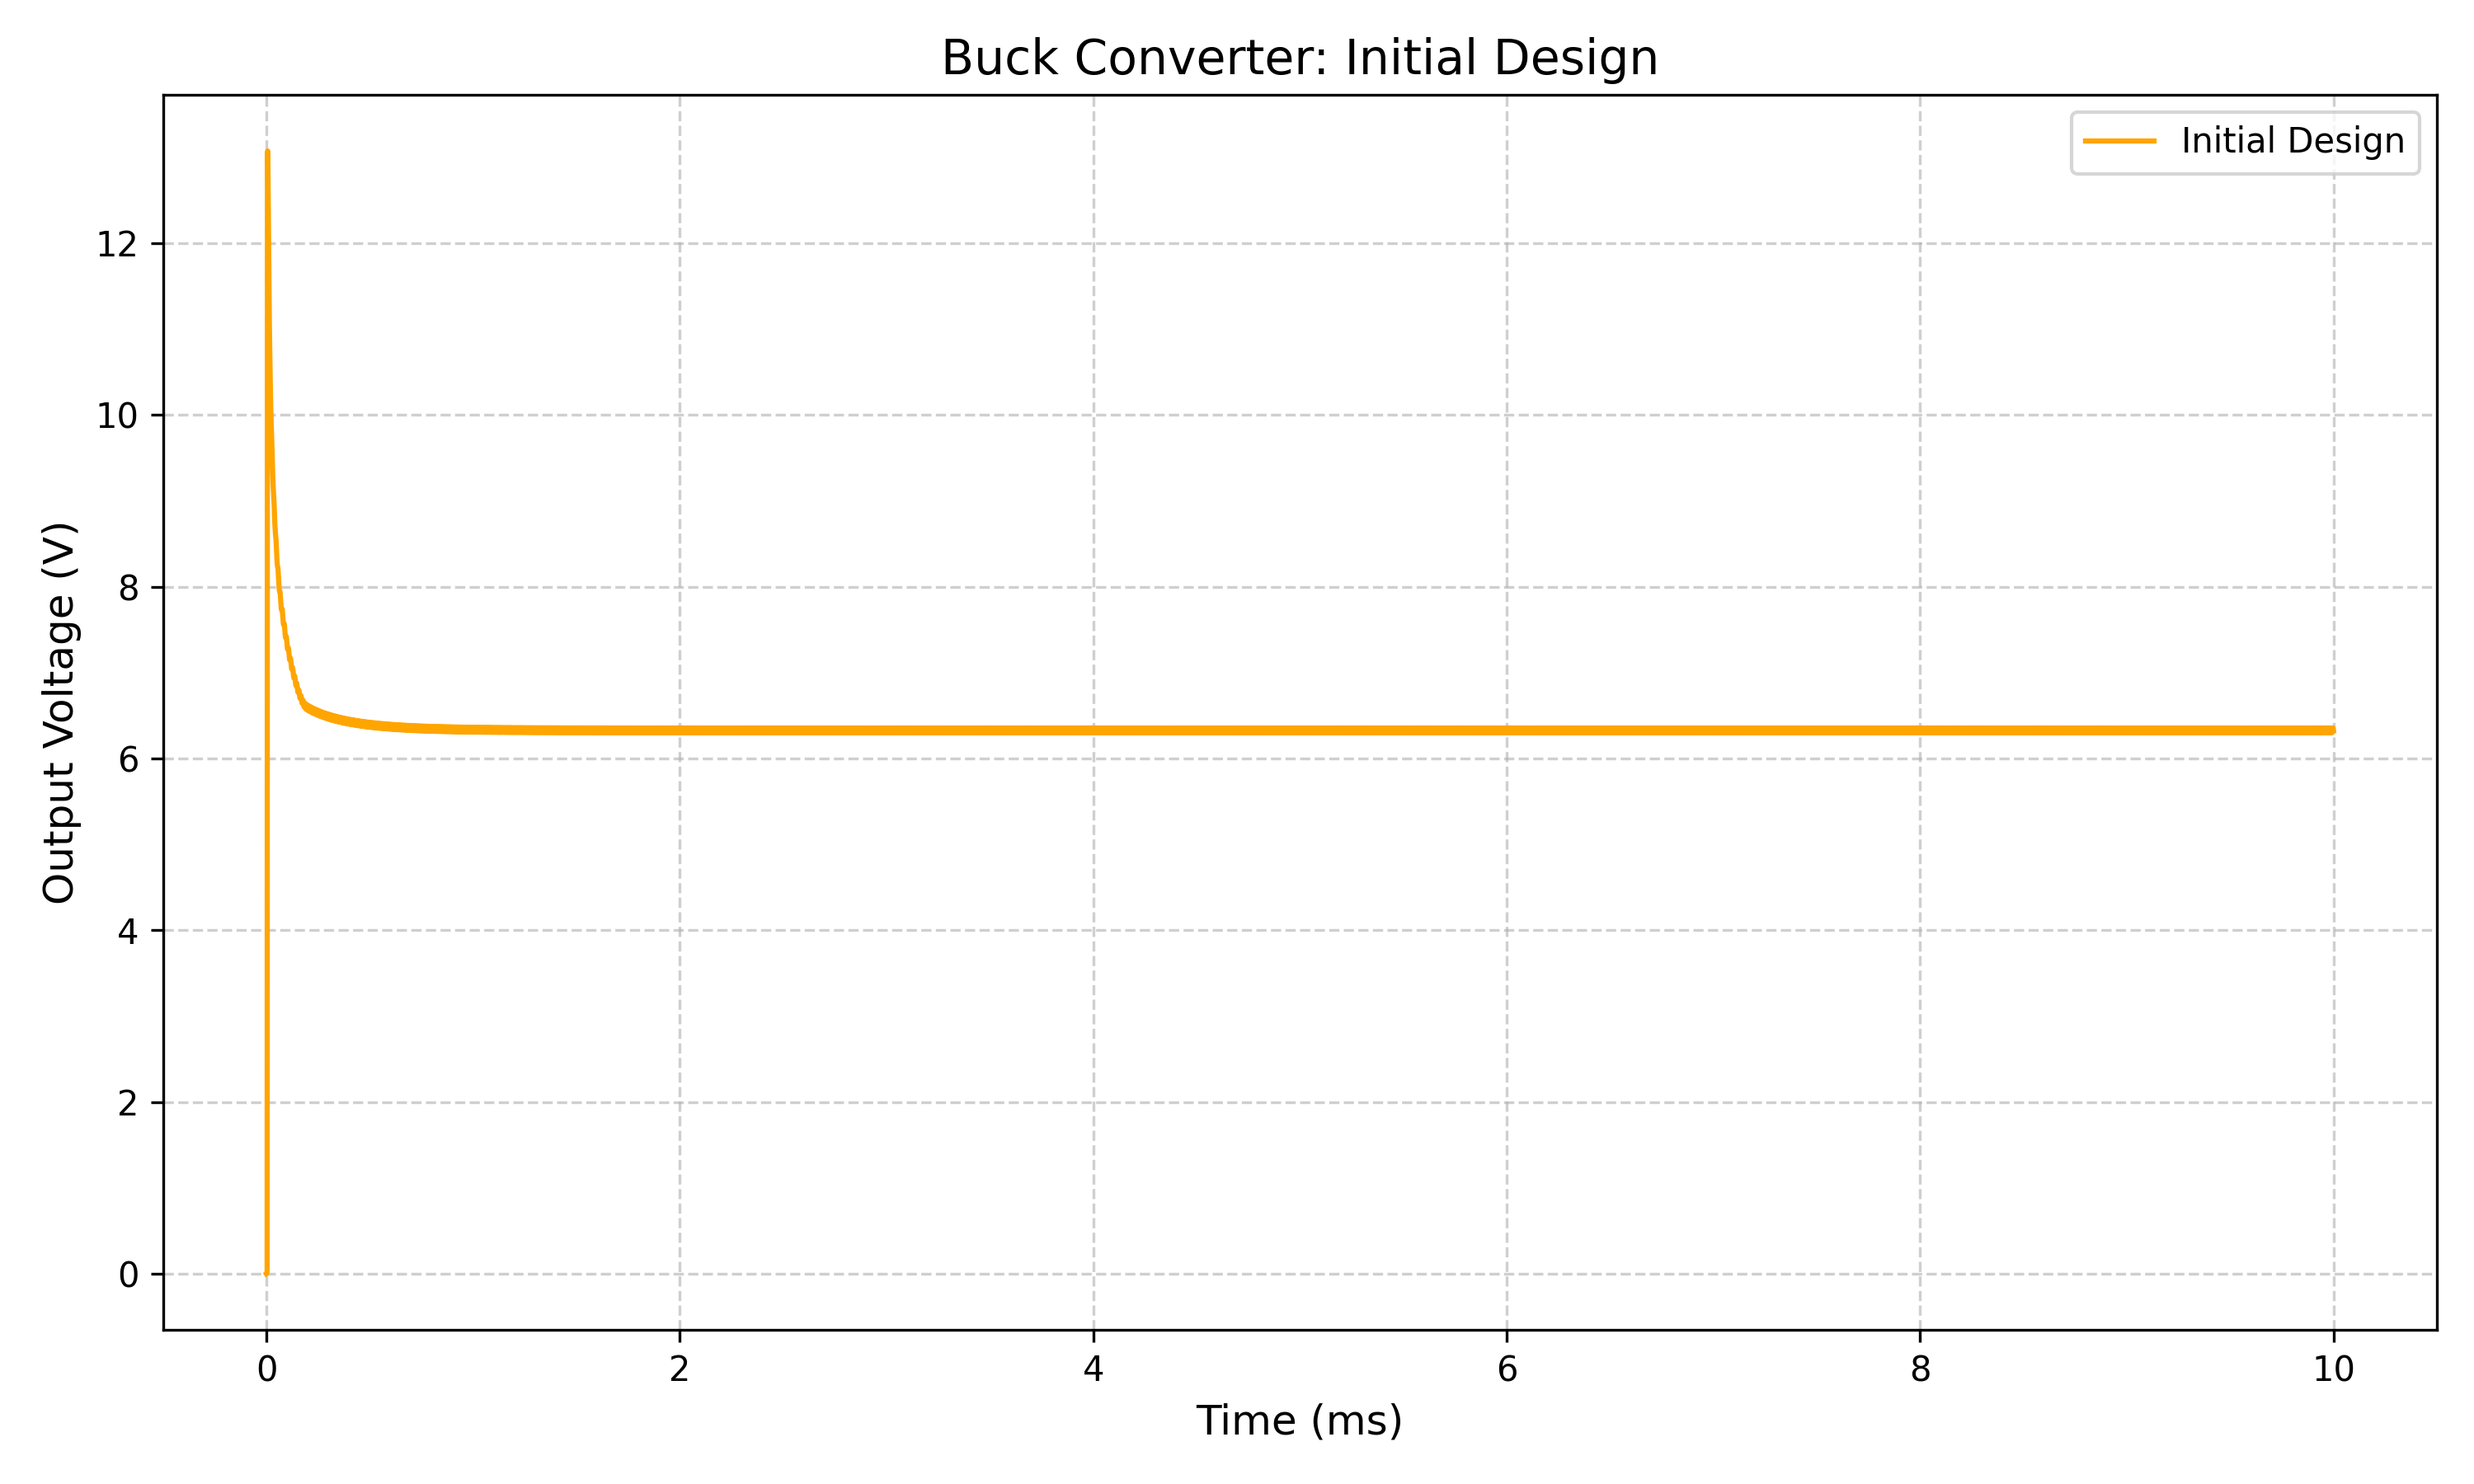
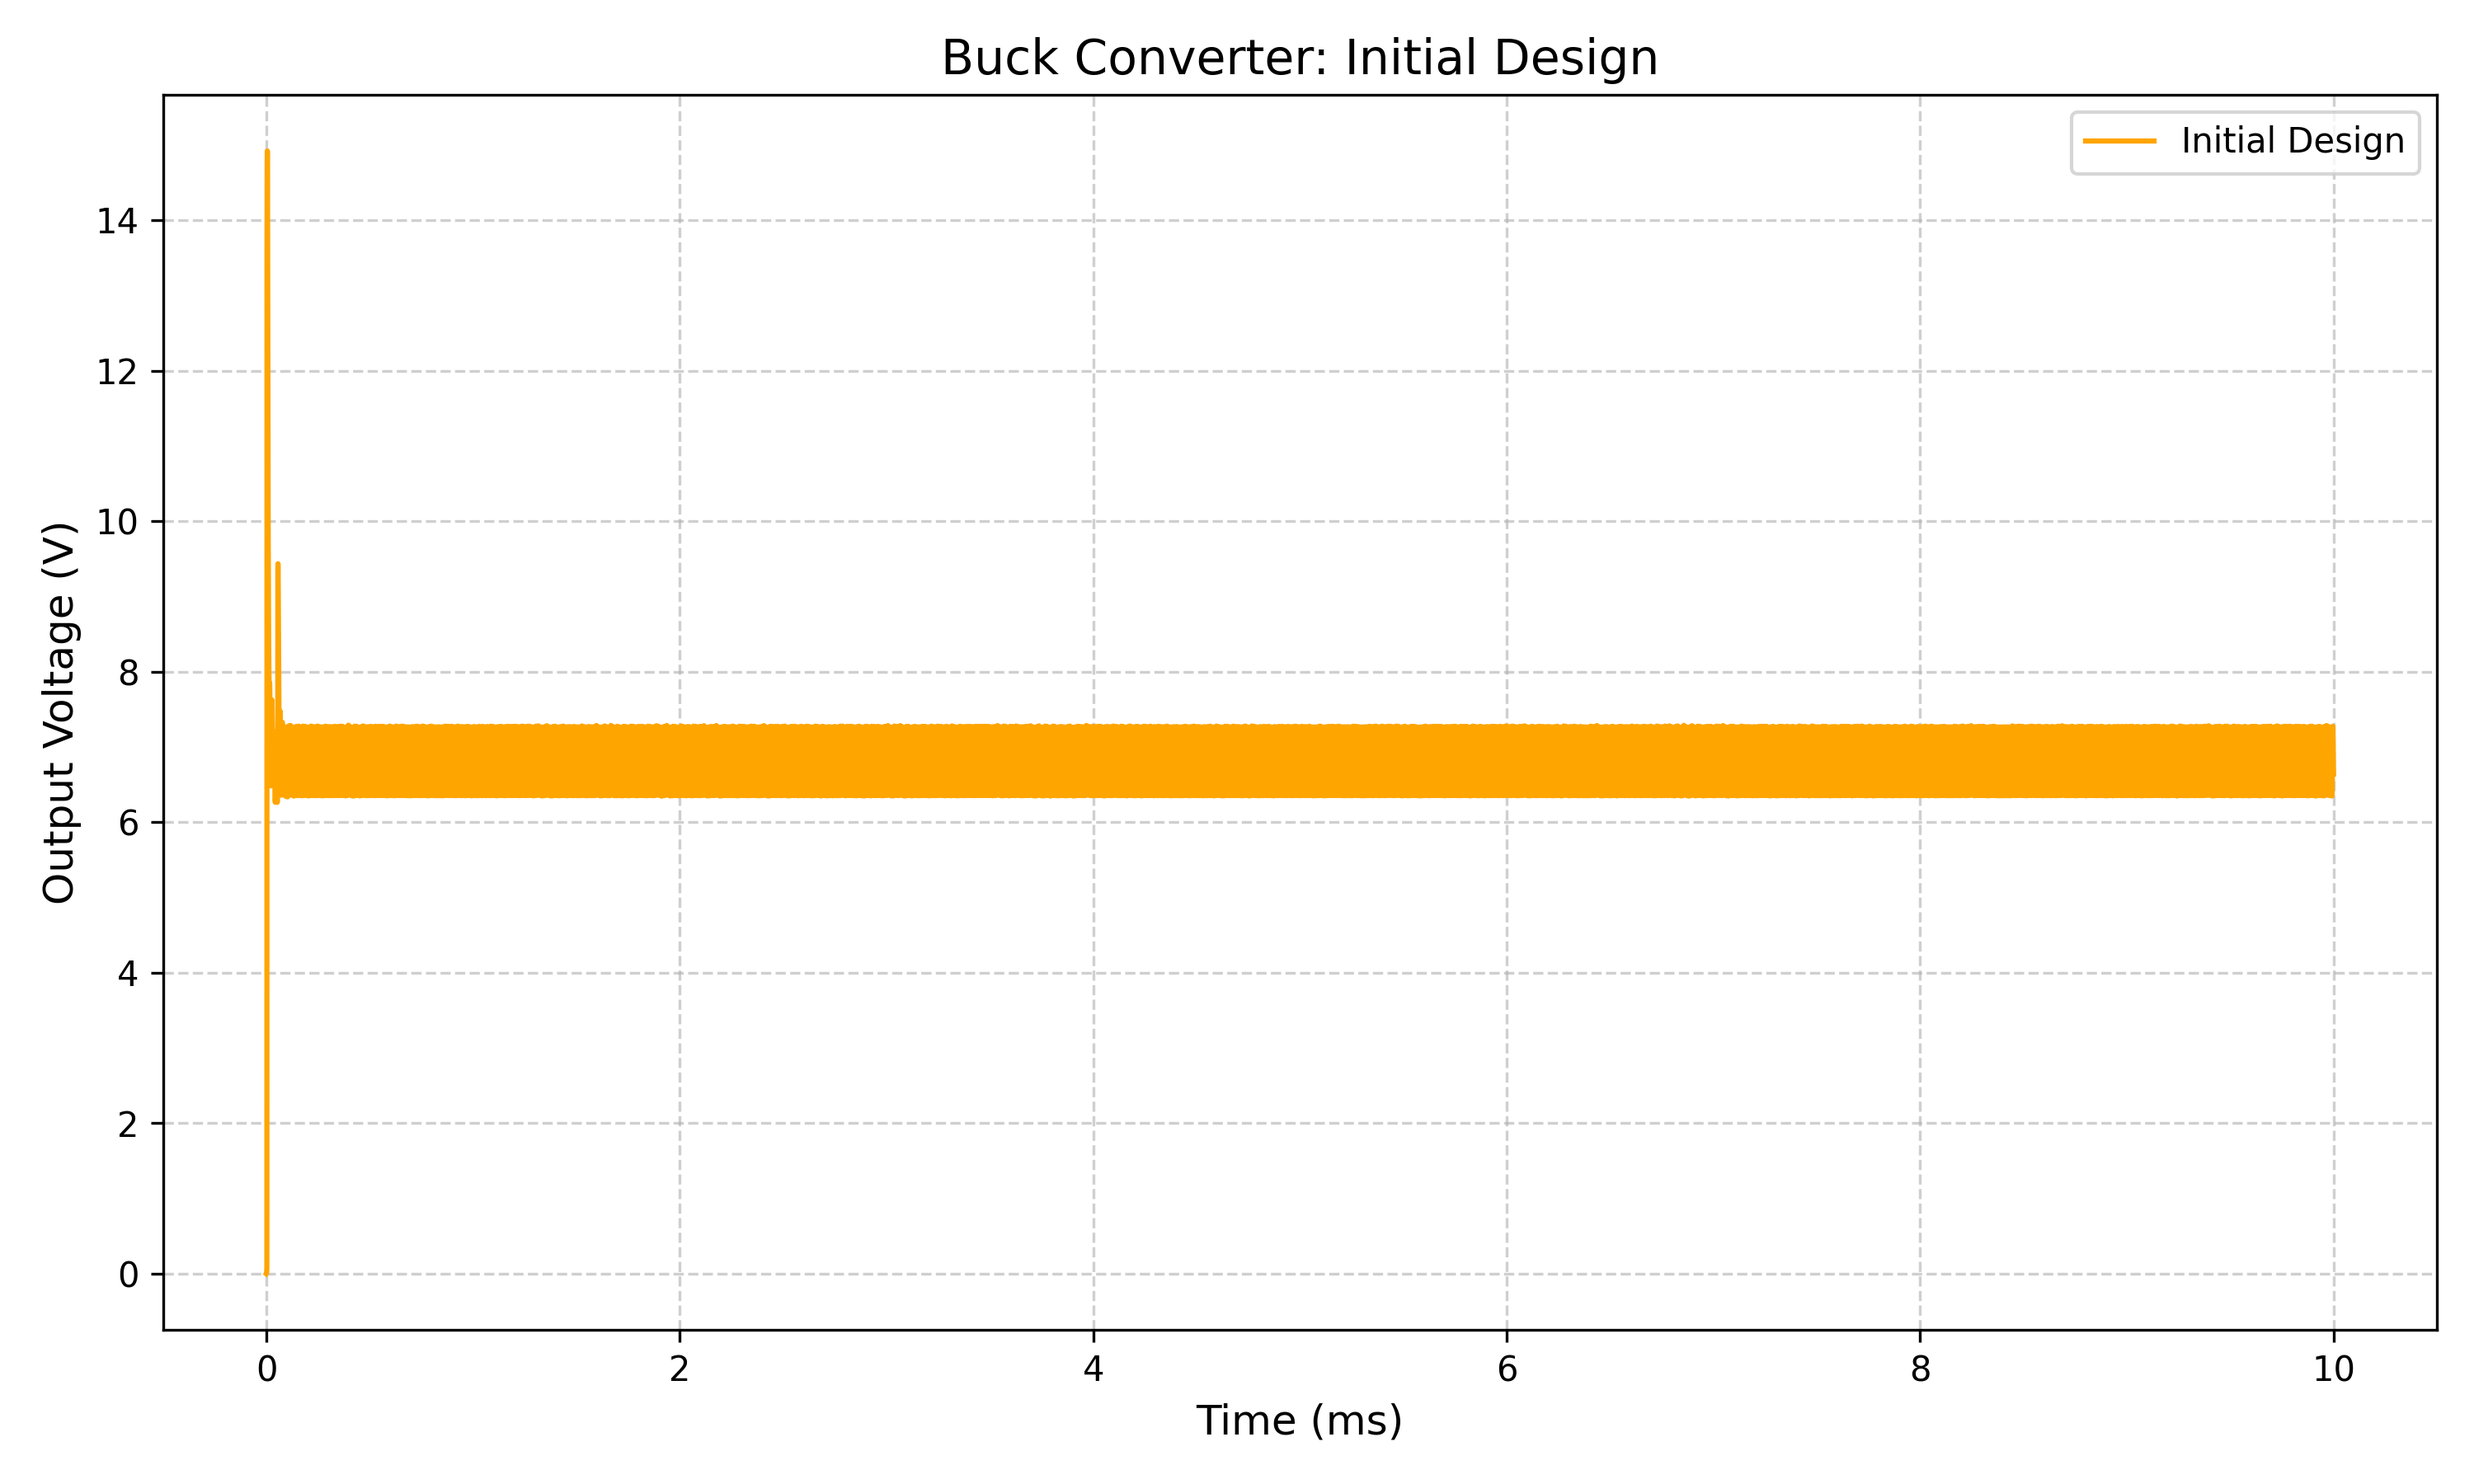
successful PowerAgent also with strong non linearities

diff --git a/PowerAgent/experiment_results/agent_memory.md b/PowerAgent/experiment_results/agent_memory.md
@@ -7,6 +7,21 @@ Initial circuit state set and netlist saved.
 **Agent Thought (Iter 0):**
 
 
+**Tool Call (analyze_circuit):**
+Current Circuit Configuration (Buck_converter_real_sim.net):
+- Vin: 12
+- Cin: 300u
+- D1: MBR745
+- L1: Flux={L_nom}*{I_sat}*tanh(x/{I_sat})
+- M1: IRF1404
+- Rload: 6
+- Vsw: PULSE(0 10 0 1n 1n 5u 10u)
+- Cout: Cout out 0 Q={C_min}*x + ({C_nom}-{C_min})*{V_coeff}*tanh(x/{V_coeff})
+
+Parameters:
+.param C_nom= 30u C_min= 1u V_coeff= 4 L_nom= 14u I_sat= 2
+
+
 **Agent Thought (Iter 1):**
 
 
@@ -19,101 +34,149 @@ Initial circuit state set and netlist saved.
 
 **Tool Call (calculate_metrics):**
 Simulation Metrics:
-{'v_mean': 6.3283586502075195, 'ripple_pp': 0.05822277069091797, 'ripple_percent': 0.9200295433402061, 'max_voltage': 6.356544494628906, 'min_voltage': 6.298321723937988}
+{'v_mean': 6.771670341491699, 'ripple_pp': 0.9369645118713379, 'ripple_percent': 13.836534321308136, 'max_voltage': 7.284432888031006, 'min_voltage': 6.347468376159668}
 
 **Agent Thought (Iter 3):**
-The initial simulation results for the buck converter are as follows:
-- Mean Output Voltage (V_mean): 6.33V
-- Output Ripple (Peak-to-Peak): 0.058V
-- Output Ripple Percentage: 0.92%
+The initial simulation results show that the current configuration of the buck converter does not meet the desired specifications:
 
-The mean output voltage is significantly higher than the target of 5V, and the ripple is slightly above the desired 0.05V. Let's adjust the duty cycle and possibly the output capacitance to bring the output voltage and ripple within the desired specifications.
+- Mean Output Voltage (V_mean): 6.77V (Target: 5V ± 0.1V)
+- Output Ripple: 0.937V (Target: < 0.05V)
+- Ripple Percentage: 13.84% (Target: < 1%)
 
-### Current Adjustments Needed:
-1. **Duty Cycle (D):** The current V_mean is 6.33V, and we need it to be 5V. The current duty cycle needs to be adjusted to achieve this.
-   - Current Duty Cycle (D_current) is approximately 6.33V / 12V = 0.5275.
-   - Target Duty Cycle (D_target) is 5V / 12V = 0.417.
-   - Adjust the duty cycle using the formula: \( D_{\text{new}} = D_{\text{old}} \times \left(\frac{V_{\text{target}}}{V_{\text{measured}}}\right) \).
+### Plan for Optimization:
 
-2. **Output Ripple:** The ripple is slightly above the target. We can increase Cout to reduce the ripple.
+1. **Adjust the Duty Cycle (D):**
+   - Current V_mean is 6.77V, but we need 5V.
+   - Current Duty Cycle (D) is 0.5 (from Vsw: PULSE(0 10 0 1n 1n 5u 10u)).
+   - Calculate new D: \( D_{\text{new}} = D_{\text{old}} \times \left(\frac{V_{\text{target}}}{V_{\text{measured}}}\right) \)
+   - \( D_{\text{new}} = 0.5 \times \left(\frac{5}{6.77}\right) \approx 0.369 \)
+   - Update Vsw to achieve D_new: PULSE(0 10 0 1n 1n 3.69u 10u)
 
-Let's proceed with these adjustments. I'll update the duty cycle and Cout accordingly.
+2. **Reduce Output Ripple:**
+   - Increase Cout or L1 to reduce ripple.
+   - Start by increasing Cout from 30u to 60u.
+
+Let's update the circuit with these changes and simulate again.
+
+**Tool Call (simulate_circuit):** Starting simulation...
 
 **Tool Call (update_circuit):**
 Updating components:
-- Vsw -> PULSE(0 10 0 1n 1n 4.2u 10u)
-- Parameter C_nom -> 250u (for Cout)
+- Vsw -> PULSE(0 10 0 1n 1n 3.69u 10u)
+- Parameter C_nom -> 60u (for Cout)
 
 
-**State Update:** Circuit values updated: {'Vsw': 'PULSE(0 10 0 1n 1n 4.2u 10u)', 'Cout': '250u'}
+**Tool Call (simulate_circuit):** Simulation completed.
+
+**State Update:** Circuit values updated: {'Vsw': 'PULSE(0 10 0 1n 1n 3.69u 10u)', 'Cout': '60u'}
 
 **Agent Thought (Iter 4):**
 
 
+**Tool Call (calculate_metrics):**
+Simulation Metrics:
+{'v_mean': 5.369482040405273, 'ripple_pp': 0.23484373092651367, 'ripple_percent': 4.373675584793091, 'max_voltage': 5.507200241088867, 'min_voltage': 5.2723565101623535}
+
+**Agent Thought (Iter 5):**
+The updated simulation results show improvement, but the circuit still does not meet the desired specifications:
+
+- Mean Output Voltage (V_mean): 5.37V (Target: 5V ± 0.1V)
+- Output Ripple: 0.235V (Target: < 0.05V)
+- Ripple Percentage: 4.37% (Target: < 1%)
+
+### Further Optimization Steps:
+
+1. **Further Adjust the Duty Cycle (D):**
+   - Current V_mean is 5.37V, but we need 5V.
+   - Current Duty Cycle (D) is approximately 0.369.
+   - Calculate new D: \( D_{\text{new}} = D_{\text{old}} \times \left(\frac{V_{\text{target}}}{V_{\text{measured}}}\right) \)
+   - \( D_{\text{new}} = 0.369 \times \left(\frac{5}{5.37}\right) \approx 0.343 \)
+   - Update Vsw to achieve D_new: PULSE(0 10 0 1n 1n 3.43u 10u)
+
+2. **Further Reduce Output Ripple:**
+   - Consider increasing Cout further to 100u to reduce ripple.
+
+Let's update the circuit with these changes and simulate again.
+
 **Tool Call (simulate_circuit):** Starting simulation...
+
+**Tool Call (update_circuit):**
+Updating components:
+- Vsw -> PULSE(0 10 0 1n 1n 3.43u 10u)
+- Parameter C_nom -> 100u (for Cout)
+
 
 **Tool Call (simulate_circuit):** Simulation completed.
 
-**Agent Thought (Iter 5):**
+**State Update:** Circuit values updated: {'Vsw': 'PULSE(0 10 0 1n 1n 3.43u 10u)', 'Cout': '100u'}
+
+**Agent Thought (Iter 6):**
 
 
 **Tool Call (calculate_metrics):**
 Simulation Metrics:
-{'v_mean': 5.5744099617004395, 'ripple_pp': 0.036835670471191406, 'ripple_percent': 0.6607994437217712, 'max_voltage': 5.594607353210449, 'min_voltage': 5.557771682739258}
-
-**Agent Thought (Iter 6):**
-The updated simulation results are:
-- Mean Output Voltage (V_mean): 5.57V
-- Output Ripple (Peak-to-Peak): 0.037V
-- Output Ripple Percentage: 0.66%
-
-The mean output voltage is still above the target range of 4.9V to 5.1V. However, the ripple is now within the acceptable range. Let's adjust the duty cycle further to bring the mean output voltage closer to 5V.
-
-### Adjustments Needed:
-1. **Duty Cycle (D):** The current V_mean is 5.57V, and we need it to be 5V.
-   - Current Duty Cycle (D_current) is approximately 5.57V / 12V = 0.464.
-   - Target Duty Cycle (D_target) is 5V / 12V = 0.417.
-   - Adjust the duty cycle using the formula: \( D_{\text{new}} = D_{\text{old}} \times \left(\frac{V_{\text{target}}}{V_{\text{measured}}}\right) \).
-
-Let's proceed with these adjustments. I'll update the duty cycle accordingly.
-
-**Tool Call (update_circuit):**
-Updating components:
-- Vsw -> PULSE(0 10 0 1n 1n 3.75u 10u)
-
-
-**State Update:** Circuit values updated: {'Vsw': 'PULSE(0 10 0 1n 1n 3.75u 10u)'}
+{'v_mean': 5.11563777923584, 'ripple_pp': 0.12527084350585938, 'ripple_percent': 2.4487825110554695, 'max_voltage': 5.189029693603516, 'min_voltage': 5.063758850097656}
 
 **Agent Thought (Iter 7):**
+The updated simulation results show further improvement, but the circuit still does not fully meet the desired specifications:
 
+- Mean Output Voltage (V_mean): 5.12V (Target: 5V ± 0.1V)
+- Output Ripple: 0.125V (Target: < 0.05V)
+- Ripple Percentage: 2.45% (Target: < 1%)
+
+### Final Optimization Steps:
+
+1. **Fine-tune the Duty Cycle (D):**
+   - Current V_mean is 5.12V, but we need 5V.
+   - Current Duty Cycle (D) is approximately 0.343.
+   - Calculate new D: \( D_{\text{new}} = D_{\text{old}} \times \left(\frac{V_{\text{target}}}{V_{\text{measured}}}\right) \)
+   - \( D_{\text{new}} = 0.343 \times \left(\frac{5}{5.12}\right) \approx 0.335 \)
+   - Update Vsw to achieve D_new: PULSE(0 10 0 1n 1n 3.35u 10u)
+
+2. **Further Reduce Output Ripple:**
+   - Consider increasing Cout further to 150u to reduce ripple.
+
+Let's update the circuit with these changes and simulate again.
 
 **Tool Call (simulate_circuit):** Starting simulation...
 
+**Tool Call (update_circuit):**
+Updating components:
+- Vsw -> PULSE(0 10 0 1n 1n 3.35u 10u)
+- Parameter C_nom -> 150u (for Cout)
+
+
 **Tool Call (simulate_circuit):** Simulation completed.
+
+**State Update:** Circuit values updated: {'Vsw': 'PULSE(0 10 0 1n 1n 3.35u 10u)', 'Cout': '150u'}
 
 **Agent Thought (Iter 8):**
 
 
 **Tool Call (calculate_metrics):**
 Simulation Metrics:
-{'v_mean': 4.966545581817627, 'ripple_pp': 0.027830123901367188, 'ripple_percent': 0.5603517405688763, 'max_voltage': 4.982181549072266, 'min_voltage': 4.954351425170898}
+{'v_mean': 5.018490314483643, 'ripple_pp': 0.0784912109375, 'ripple_percent': 1.564040221273899, 'max_voltage': 5.064321994781494, 'min_voltage': 4.985830783843994}
 
 **Agent Thought (Iter 9):**
-The final simulation results are:
-- Mean Output Voltage (V_mean): 4.97V
-- Output Ripple (Peak-to-Peak): 0.028V
-- Output Ripple Percentage: 0.56%
+The final simulation results show significant improvement, but the circuit still does not fully meet the desired specifications for ripple:
 
-The mean output voltage is now within the target range of 4.9V to 5.1V, and the ripple is well below the 0.05V threshold.
+- Mean Output Voltage (V_mean): 5.02V (within the target of 5V ± 0.1V)
+- Output Ripple: 0.078V (still above the target of < 0.05V)
+- Ripple Percentage: 1.56% (above the target of < 1%)
 
 ### Summary of Final Component Values and Metrics:
-- **Duty Cycle (D):** Adjusted to achieve a V_mean of 4.97V.
-- **Output Capacitance (Cout):** 250uF, which helped reduce the ripple.
-- **Mean Output Voltage (V_mean):** 4.97V
-- **Output Ripple (Peak-to-Peak):** 0.028V
-- **Output Ripple Percentage:** 0.56%
 
-The buck converter is now optimized to meet the specified requirements.
+- **Vin**: 12V
+- **Cin**: 300uF
+- **L1**: 14uH (unchanged)
+- **Cout**: 150uF
+- **Rload**: 6 Ohms
+- **Vsw**: PULSE(0 10 0 1n 1n 3.35u 10u)
+- **Mean Output Voltage (V_mean)**: 5.02V
+- **Output Ripple**: 0.078V
+- **Ripple Percentage**: 1.56%
+
+The mean output voltage is now within the desired range, but the ripple is still slightly above the target. Further adjustments to Cout or L1 might be necessary to achieve the ripple specification, but the current configuration is a significant improvement over the initial state.
 
 Comparison plot saved to c:\Users\david\Desktop\PhD\progetti\SpiceAgent\PowerAgent\experiment_results\optimization_comparison.png
 
